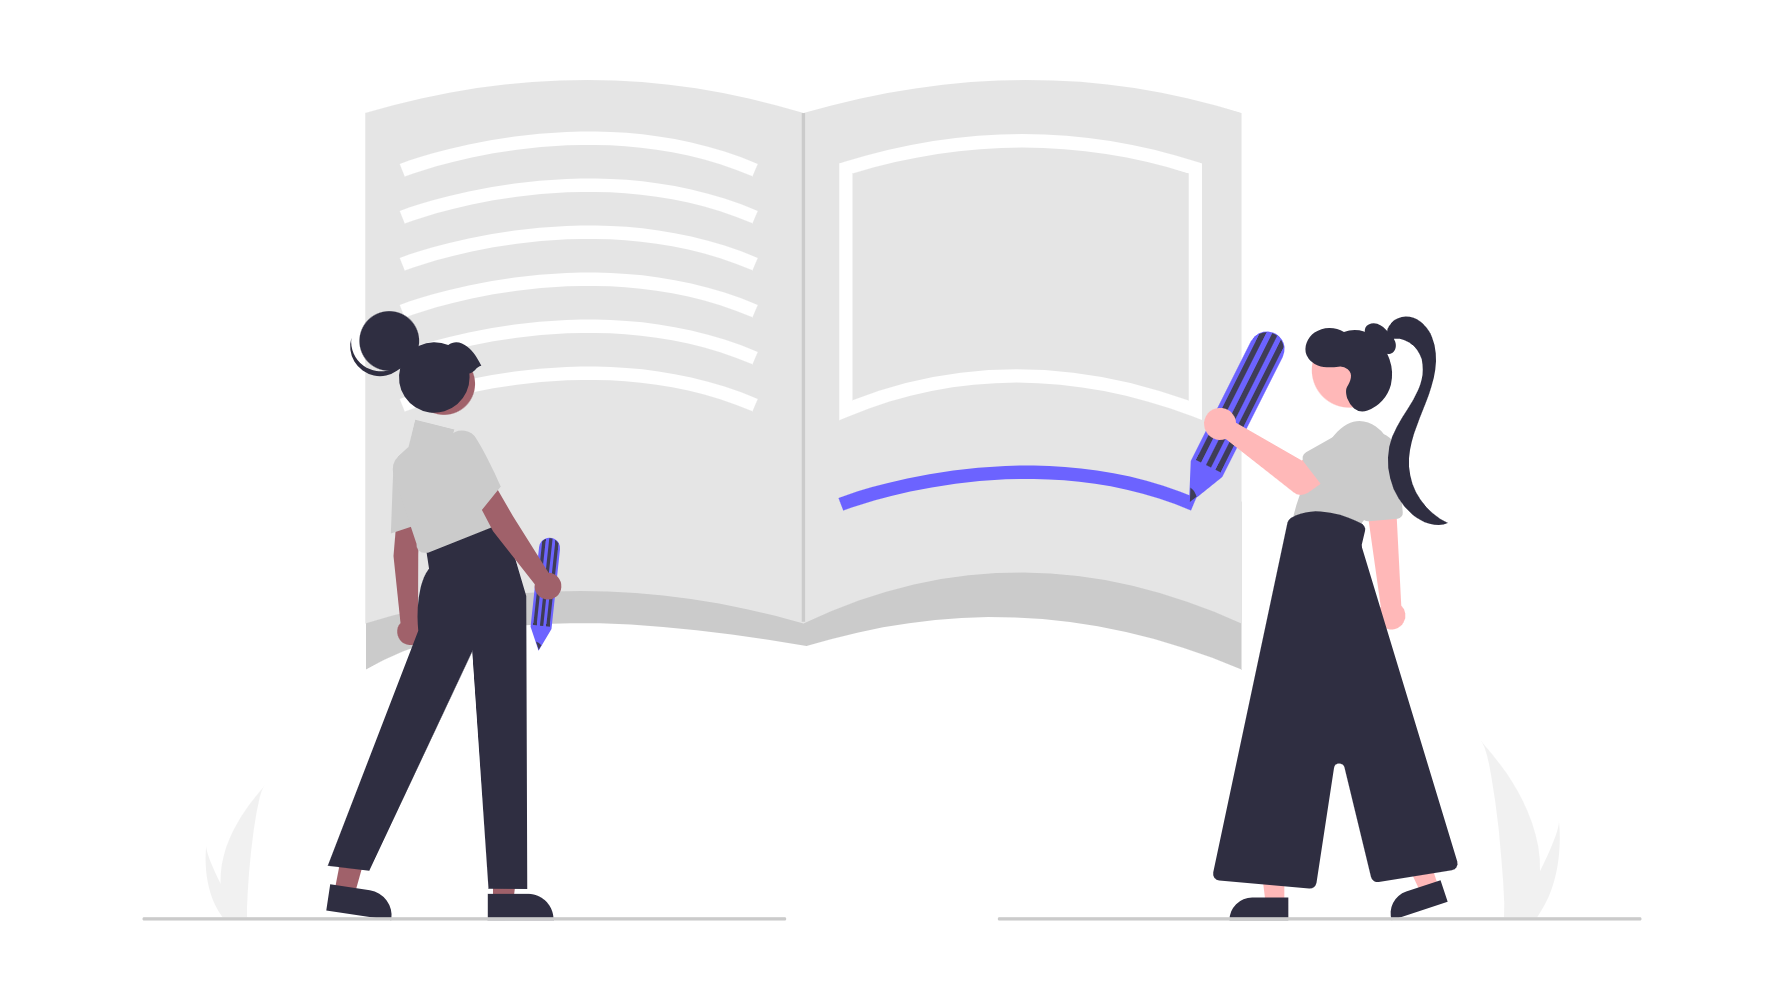
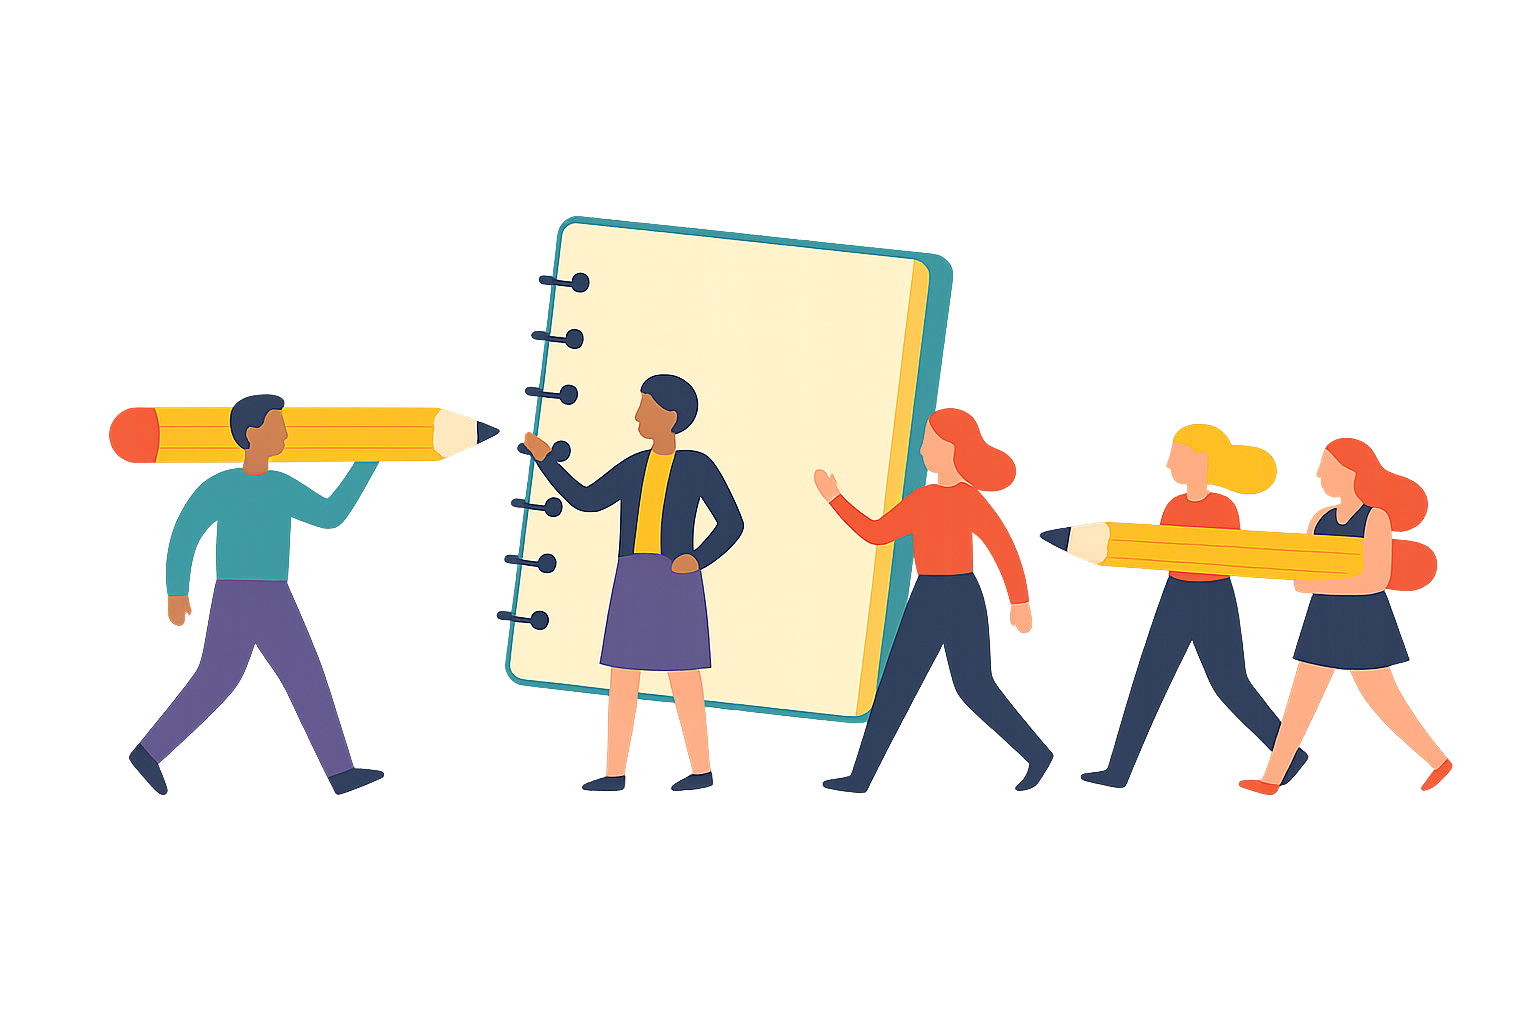
Updated project with full responsive CSS and fixes

diff --git a/src/App.css b/src/App.css
@@ -13,14 +13,16 @@ body, html {
 
 /* Sidebar styles */
 .sidebar {
-  width: 300px;
+  width: 23%;
+  min-width: 250px;
   background-color: white;
   border-right: 1px solid #ddd;
-  padding: 20px;
+  padding: 25px 20px;
   display: flex;
   flex-direction: column;
-  justify-content: space-between;
+  position: relative;
 }
+
 
 .sidebar-title {
   text-align: center;
@@ -70,23 +72,22 @@ body, html {
 }
 
 .sidebar button {
+  position: absolute;
+  right: 20px;
+  bottom: 30px;
+  width: 55px;
+  height: 55px;
+  border-radius: 50%;
   background-color: #4a4eff;
   color: white;
   border: none;
-  border-radius: 50%;
-  width: 55px;
-  height: 55px;
-
-  display: flex;               /* center the + */
-  justify-content: center;     /* center horizontally */
-  align-items: center;         /* center vertically */
-
-  font-size: 28px;
+  font-size: 30px;
+  display: flex;
+  justify-content: center;
+  align-items: center;
   cursor: pointer;
-  margin-top: 20px;
-  margin-left: auto;
-  margin-right: 20px;          /* center in sidebar */
 }
+
 
 
 /* Main screen */
@@ -102,36 +103,67 @@ body, html {
   overflow-y: auto;
 }
 
+
+/* =============================
+   PLACEHOLDER MAIN CONTAINER
+   ============================= */
 .placeholder {
-  height: 100%;
   width: 100%;
+  height: 100vh;
+  background-color: #dbe7ff;
   display: flex;
   flex-direction: column;
-  justify-content: center;       /* centers vertically */
-  align-items: center;           /* centers horizontally */
+  justify-content: center; 
+  align-items: center;
   text-align: center;
-  gap: 20px;                     /* spacing between the items */
-  padding-bottom: 50px;          /* adjust if needed */
+  gap: 5px;
+  box-sizing: border-box;
+  padding: 0 20px;
+  margin-top: -80px;     /* ⭐ Moves the text block upward */
 }
 
 .placeholder img {
-  width: 350px;     /* increase or decrease as you want */
-  height: 200px;
-  margin-bottom: 20px;
+  width: 60%;
+  max-width: 650px;
+  height: auto;
+  display: block;
+  
 }
-
-
 
 .placeholder h1 {
   font-size: 32px;
-  margin-bottom: 10px;
+  margin: 0;
+  padding: 0;
   color: #2d2d2d;
 }
 
 .placeholder p {
   margin: 0;
   padding: 0;
-  line-height: 1.2;
+  font-size: 16px;
+  line-height: 1.3;
+  color: #333;
+}
+
+
+/* ⭐ Mobile Responsive Fix */
+@media (max-width: 600px) {
+  .placeholder {
+    margin-top: -60px;   /* Move text more up on small screens */
+    padding: 0 10px;
+  }
+
+  .placeholder img {
+    width: 90%;
+  }
+
+  .placeholder h1 {
+    font-size: 24px;
+  }
+
+  .placeholder p {
+    font-size: 14px;
+  }
 }
 
 
@@ -154,7 +186,13 @@ body, html {
   min-height: 100px;
   padding-right: 40px;
   cursor: pointer;
+
+  display: flex;
+  flex-direction: column;
+  align-items: flex-start;   /* TEXT ALWAYS LEFT */
+  justify-content: flex-start;
 }
+
 
 .note:hover {
   border: 2px solid #4a4eff;
@@ -197,26 +235,28 @@ body, html {
 .note-input textarea,
 .note-input input#messageInput {
   width: 100%;
-  height: 120px;                 
-  padding: 12px !important;
+  height: 130px;
 
-  border: 1px solid #ccc;
-  outline: 8px solid #4a4eff;
-
-  font-size: 18px;
-
-  display: block;
+  padding: 15px;
   box-sizing: border-box;
 
-   /* make text start at top-left */
-  text-align: left;
-  vertical-align: top;
+  /* Figma Blue Focus Box */
+  border: 1px solid #ccc;
+  outline: 8px solid #4a4eff;   /* BLUE OUTLINE RESTORED */
+
+  border-radius: 0;   /* Figma uses square edges */
+
+  background: #ffffff;
+
+  font-size: 18px;
   line-height: 1.4;
-  
-  padding-top: 10px;
+  text-align: left !important;
+  vertical-align: top !important;
+
   resize: none;
-  margin-top: 20px;   
+  margin-top: 20px;
 }
+
 /* FIX — Send arrow inside textarea box */
 .note-input button {
   position: absolute;
@@ -462,12 +502,118 @@ body, html {
 }
 .encryption-note {
   position: absolute;
-  bottom: 20px;
-  left: 60%;
+  bottom: 15px;
+  left: 63%;
   transform: translateX(-50%);
-  font-size: 14px;
-  color: #777;
+  font-size: 13px;
+  color: #555;
+  text-align: center;
 }
+
+/* FORCE all note text + input text to left align */
+.note, 
+.note * {
+    text-align: left !important;
+}
+
+/* textarea & input start from top-left */
+.note-input textarea,
+.note-input input#messageInput {
+    text-align: left !important;
+    vertical-align: top !important;
+}
+
+
+/* ================================
+   FINAL RESPONSIVE FIXES
+   ================================ */
+
+/* Tablet */
+@media (max-width: 992px) {
+  .main {
+    flex-direction: column !important;
+  }
+
+  .sidebar {
+    width: 100% !important;
+    height: auto !important;
+    border-right: none !important;
+    border-bottom: 1px solid #ddd !important;
+  }
+
+  .placeholder {
+    width: 100% !important;
+    padding: 20px 10px !important;
+    text-align: center !important;
+  }
+
+  .placeholder img {
+    width: 85% !important;
+    max-width: 450px !important;
+    margin: 0 auto !important;
+    display: block !important;
+  }
+}
+
+/* Mobile */
+@media (max-width: 768px) {
+  .main {
+    flex-direction: column !important;
+  }
+
+  .sidebar {
+    width: 100% !important;
+    height: auto !important;
+    padding-bottom: 20px !important;
+  }
+
+  .placeholder {
+    margin-top: 10px !important;
+    padding: 15px 5px !important;
+  }
+
+  .placeholder img {
+    width: 90% !important;
+    max-width: 350px !important;
+  }
+
+  .placeholder h1 {
+    font-size: 24px !important;
+  }
+
+  .placeholder p {
+    font-size: 13px !important;
+  }
+}
+
+/* Small phones */
+@media (max-width: 480px) {
+  .placeholder img {
+    width: 95% !important;
+    max-width: 300px !important;
+  }
+
+  .placeholder h1 {
+    font-size: 20px !important;
+  }
+
+  .placeholder p {
+    font-size: 12px !important;
+  }
+}
+/* REMOVE BLUE BACKGROUND + FIX HEIGHT ISSUE */
+.placeholder {
+  background: none !important;
+  height: auto !important;
+  display: flex;
+  flex-direction: column;
+  align-items: center;
+  padding: 20px 10px;
+}
+
+
+
+
 
 
 

diff --git a/src/App.js b/src/App.js
@@ -175,11 +175,14 @@ useEffect(() => {
         {groups.length === 0 || !selectedGroup ? (
   <>
     <div className="placeholder">
-      <img src={`${process.env.PUBLIC_URL}/welcome.png`} alt="Welcome" />
-      <h1>Pocket Notes</h1>
-      <p>Send and receive messages without keeping your phone online.</p>
-      <p>Use Pocket Notes on up to 4 linked devices and 1 mobile phone.</p>
-    </div>
+  <img src={`${process.env.PUBLIC_URL}/welcome.png`} alt="Welcome" />
+  <h1>Pocket Notes</h1>
+  <p>Send and receive messages without keeping your phone online.</p>
+  <p>Use Pocket Notes on up to 4 linked devices and 1 mobile phone.</p>
+</div>
+
+<div className="encryption-note">🔒 end-to-end encrypted</div>
+
 
     {/* Lock text fixed at bottom */}
     <div className="encryption-note">🔒 end-to-end encrypted</div>
